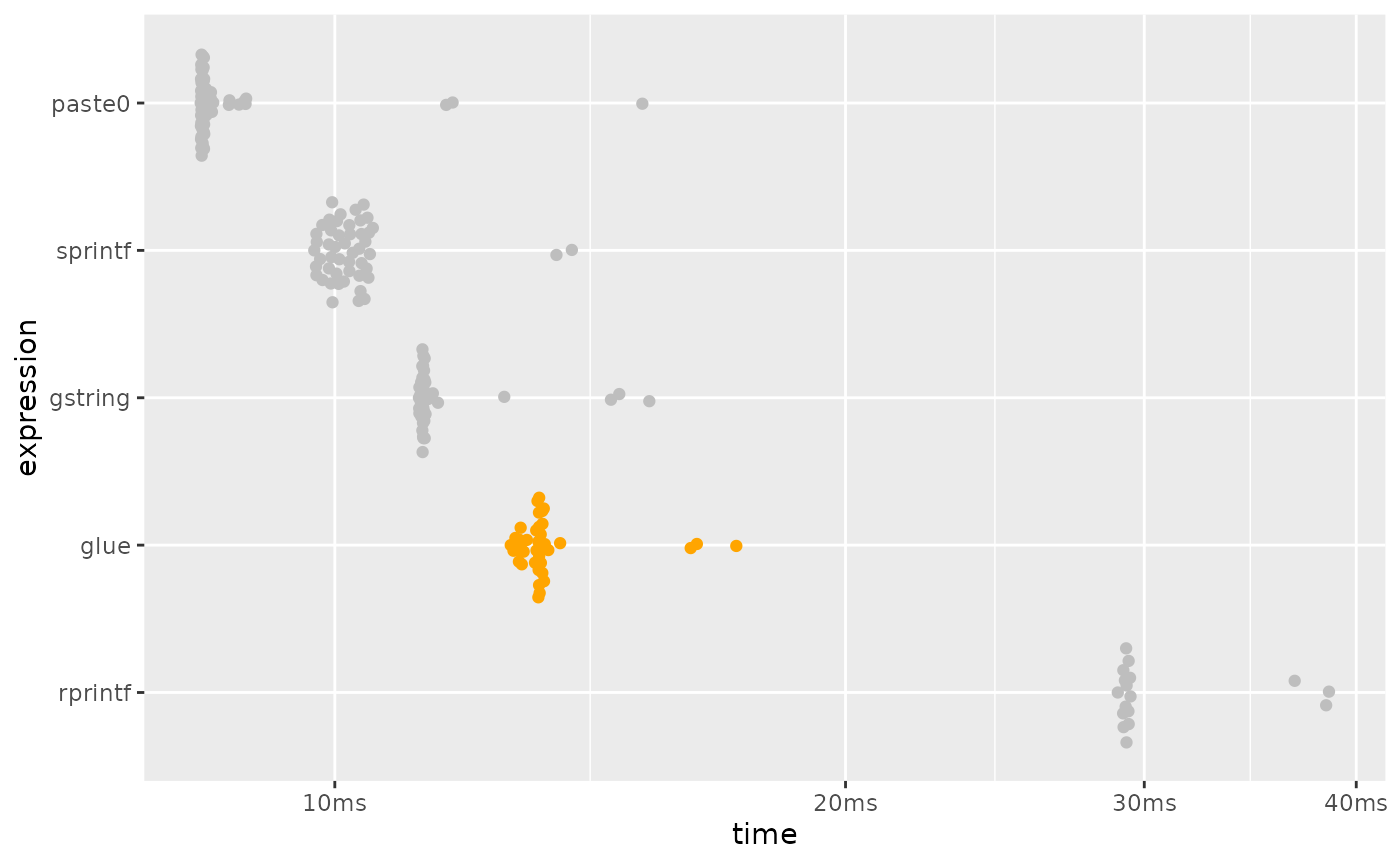
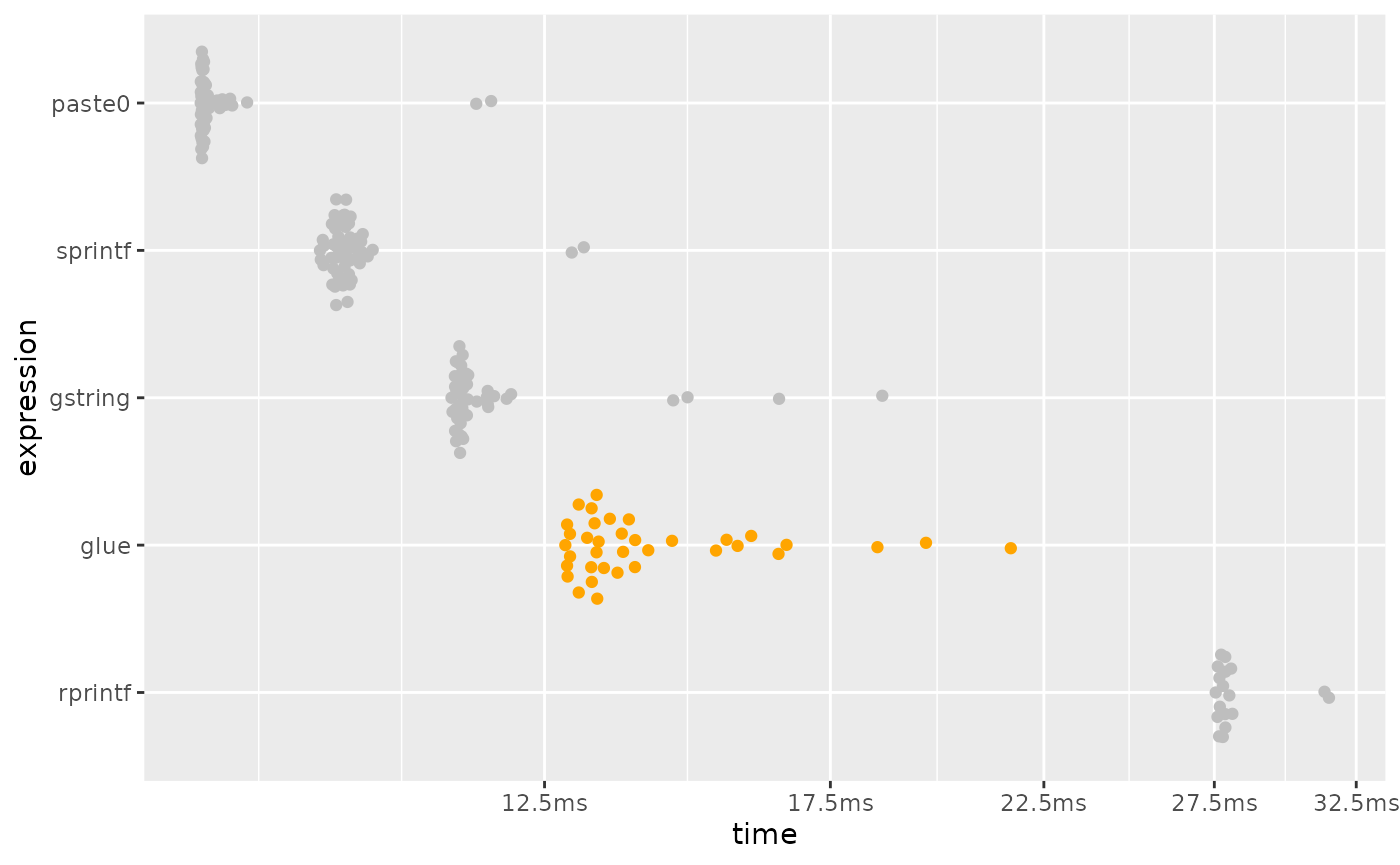
Deploying to gh-pages from @ tidyverse/glue@b0165f4bbb747f2ea914ac674622a6461805ac50 🚀

diff --git a/dev/articles/speed.html b/dev/articles/speed.html
@@ -166,11 +166,11 @@ this benchmark, but is now formally marked as “superseded”, in favor of
 <span><span class="co">#&gt; <span style="color: #949494;"># A tibble: 5 × 6</span></span></span>
 <span><span class="co">#&gt;   expression      min   median `itr/sec` mem_alloc `gc/sec`</span></span>
 <span><span class="co">#&gt;   <span style="color: #949494; font-style: italic;">&lt;bch:expr&gt;</span> <span style="color: #949494; font-style: italic;">&lt;bch:tm&gt;</span> <span style="color: #949494; font-style: italic;">&lt;bch:tm&gt;</span>     <span style="color: #949494; font-style: italic;">&lt;dbl&gt;</span> <span style="color: #949494; font-style: italic;">&lt;bch:byt&gt;</span>    <span style="color: #949494; font-style: italic;">&lt;dbl&gt;</span></span></span>
-<span><span class="co">#&gt; <span style="color: #BCBCBC;">1</span> sprintf    761.01ns    851ns  1<span style="text-decoration: underline;">147</span>209.        0B      0  </span></span>
-<span><span class="co">#&gt; <span style="color: #BCBCBC;">2</span> paste0       1.52µs   1.62µs   <span style="text-decoration: underline;">598</span>721.        0B     59.9</span></span>
-<span><span class="co">#&gt; <span style="color: #BCBCBC;">3</span> glue        96.71µs 101.12µs     <span style="text-decoration: underline;">9</span>714.  139.66KB     33.7</span></span>
-<span><span class="co">#&gt; <span style="color: #BCBCBC;">4</span> gstring    222.86µs 231.26µs     <span style="text-decoration: underline;">4</span>258.    2.45MB     18.9</span></span>
-<span><span class="co">#&gt; <span style="color: #BCBCBC;">5</span> rprintf    276.81µs 284.04µs     <span style="text-decoration: underline;">3</span>477.   78.14KB     10.3</span></span>
+<span><span class="co">#&gt; <span style="color: #BCBCBC;">1</span> sprintf    711.07ns 811.07ns  1<span style="text-decoration: underline;">067</span>910.        0B   107.  </span></span>
+<span><span class="co">#&gt; <span style="color: #BCBCBC;">2</span> paste0       1.44µs   1.57µs   <span style="text-decoration: underline;">560</span>352.        0B     0   </span></span>
+<span><span class="co">#&gt; <span style="color: #BCBCBC;">3</span> glue        98.51µs 106.49µs     <span style="text-decoration: underline;">8</span>494.  139.66KB    30.0 </span></span>
+<span><span class="co">#&gt; <span style="color: #BCBCBC;">4</span> gstring    227.21µs  260.5µs     <span style="text-decoration: underline;">3</span>293.    2.45MB    15.0 </span></span>
+<span><span class="co">#&gt; <span style="color: #BCBCBC;">5</span> rprintf    277.12µs 310.56µs     <span style="text-decoration: underline;">2</span>776.   78.14KB     8.24</span></span>
 <span></span>
 <span><span class="co"># plotting function defined in a hidden chunk</span></span>
 <span><span class="fu">plot_comparison</span><span class="op">(</span><span class="va">simple</span><span class="op">)</span></span></code></pre></div>
@@ -213,11 +213,11 @@ performance is much closer to that of <code><a href="https://rdrr.io/r/base/past
 <span><span class="co">#&gt; <span style="color: #949494;"># A tibble: 5 × 6</span></span></span>
 <span><span class="co">#&gt;   expression      min   median `itr/sec` mem_alloc `gc/sec`</span></span>
 <span><span class="co">#&gt;   <span style="color: #949494; font-style: italic;">&lt;bch:expr&gt;</span> <span style="color: #949494; font-style: italic;">&lt;bch:tm&gt;</span> <span style="color: #949494; font-style: italic;">&lt;bch:tm&gt;</span>     <span style="color: #949494; font-style: italic;">&lt;dbl&gt;</span> <span style="color: #949494; font-style: italic;">&lt;bch:byt&gt;</span>    <span style="color: #949494; font-style: italic;">&lt;dbl&gt;</span></span></span>
-<span><span class="co">#&gt; <span style="color: #BCBCBC;">1</span> paste0       8.34ms   8.37ms     117.    781.3KB     4.18</span></span>
-<span><span class="co">#&gt; <span style="color: #BCBCBC;">2</span> sprintf      9.72ms  10.12ms      98.7   781.3KB     4.20</span></span>
-<span><span class="co">#&gt; <span style="color: #BCBCBC;">3</span> gstring     11.21ms  11.27ms      88.4    1.53MB     6.47</span></span>
-<span><span class="co">#&gt; <span style="color: #BCBCBC;">4</span> glue         12.7ms  13.19ms      76.3    2.29MB     6.54</span></span>
-<span><span class="co">#&gt; <span style="color: #BCBCBC;">5</span> rprintf     28.94ms  29.28ms      33.5    3.05MB     4.46</span></span>
+<span><span class="co">#&gt; <span style="color: #BCBCBC;">1</span> paste0       8.34ms   8.37ms     119.    781.3KB     4.17</span></span>
+<span><span class="co">#&gt; <span style="color: #BCBCBC;">2</span> sprintf       9.6ms   9.87ms     101.    781.3KB     4.14</span></span>
+<span><span class="co">#&gt; <span style="color: #BCBCBC;">3</span> gstring      11.2ms  11.34ms      85.4    1.53MB     4.17</span></span>
+<span><span class="co">#&gt; <span style="color: #BCBCBC;">4</span> glue        12.81ms  13.32ms      71.1    2.29MB     6.46</span></span>
+<span><span class="co">#&gt; <span style="color: #BCBCBC;">5</span> rprintf     27.55ms  27.78ms      36.0    3.05MB     4.50</span></span>
 <span></span>
 <span><span class="co"># plotting function defined in a hidden chunk</span></span>
 <span><span class="fu">plot_comparison</span><span class="op">(</span><span class="va">vectorized</span><span class="op">)</span></span></code></pre></div>
